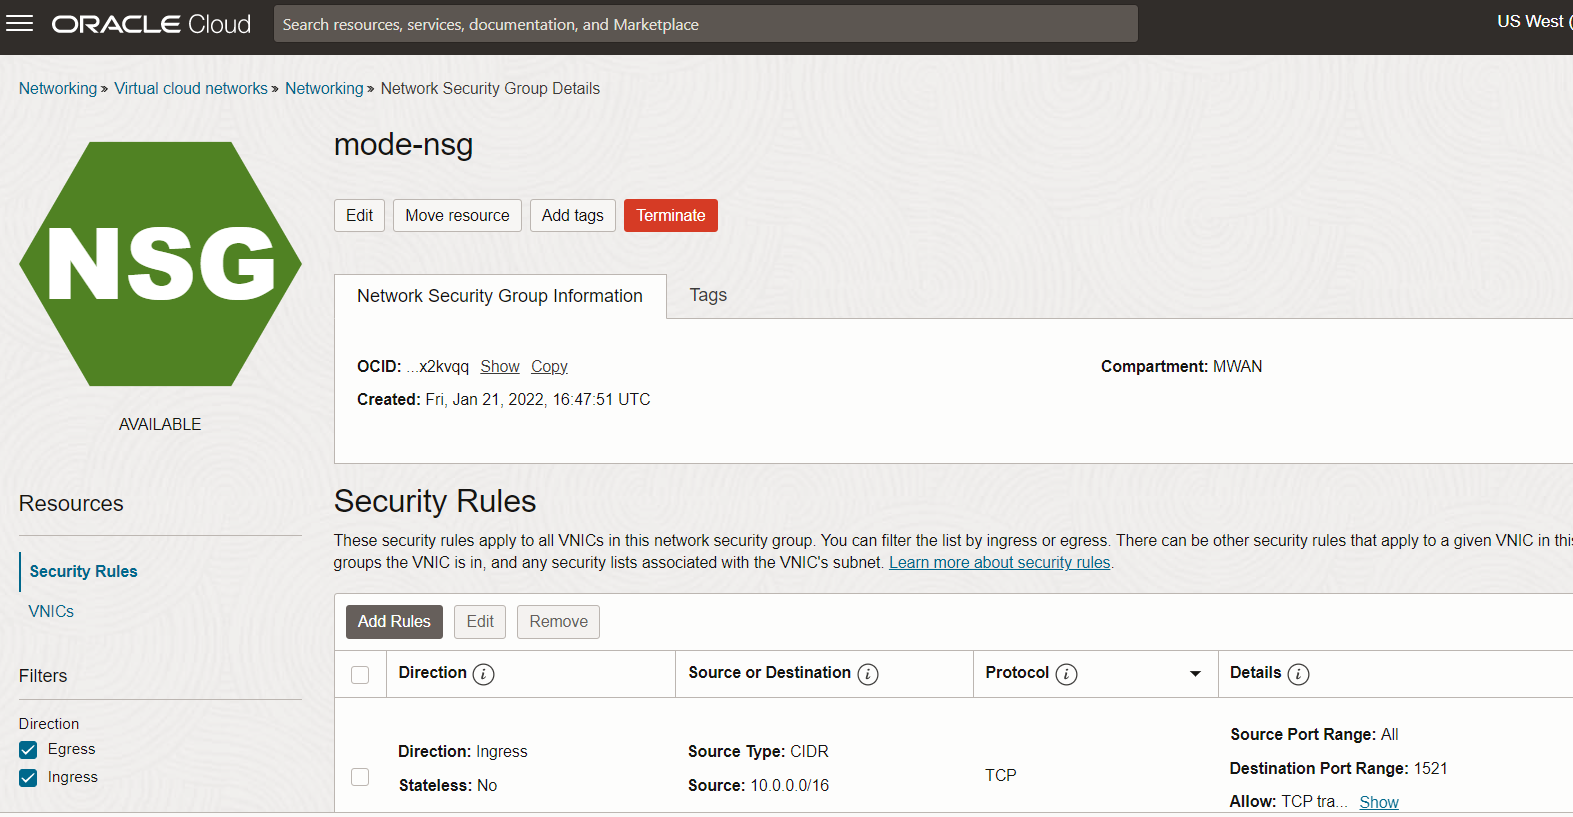
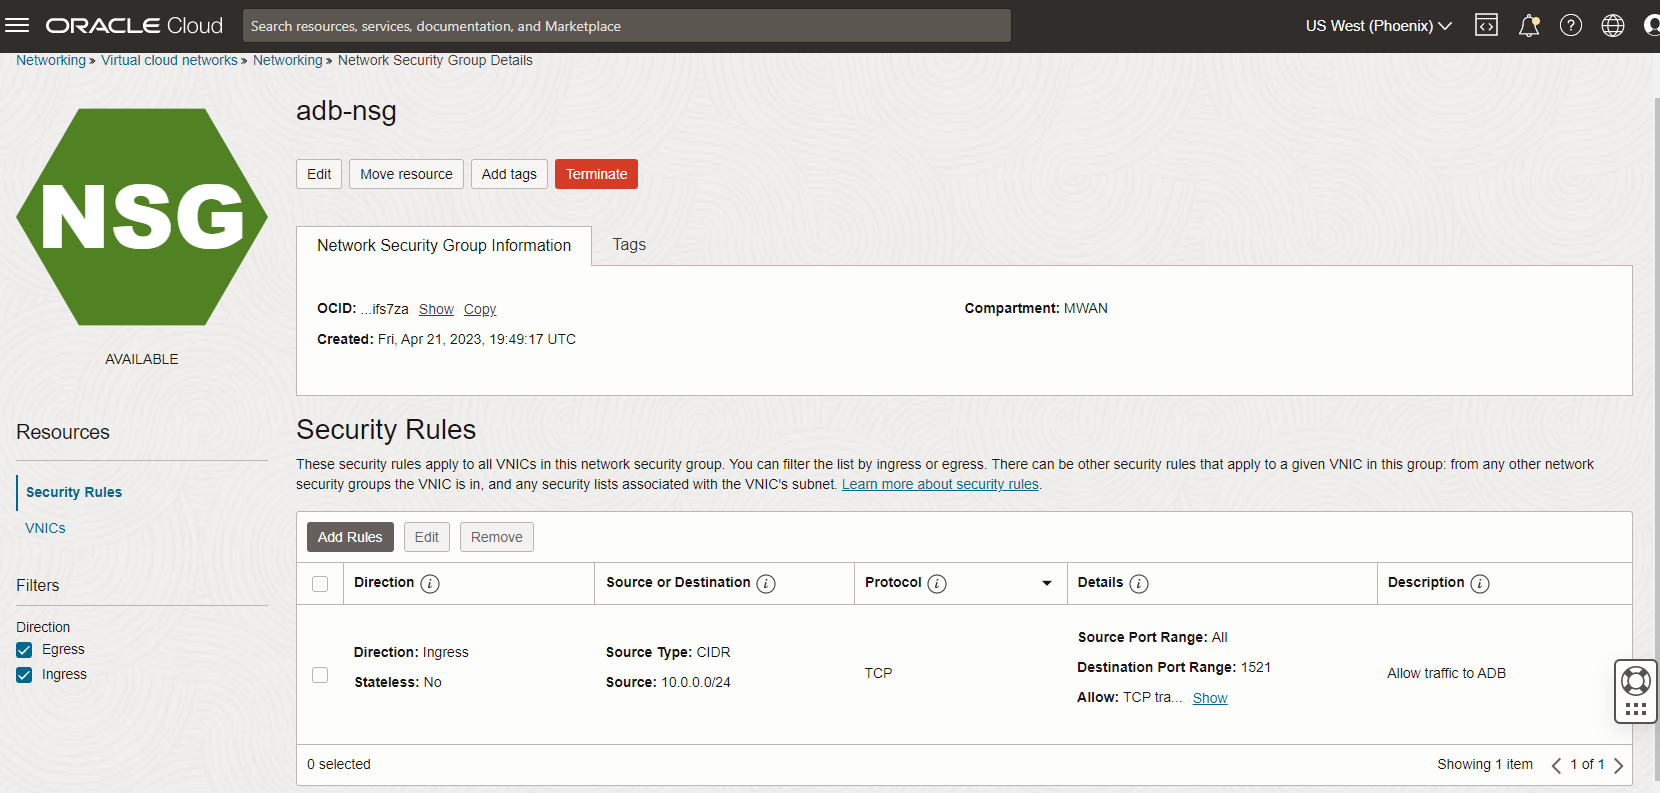
changed nsg picture

diff --git a/common/tls-no-wallet/no-wallet.md b/common/tls-no-wallet/no-wallet.md
@@ -18,7 +18,7 @@ You can connect your application to ADB without the wallet (mTLS) using one way 
 
 ![pe](./images/private-endpoint-diagram.png)
 
-Applications deployed on an OCI VCN can access ADB from private endpoints.  To do this you must configure a network security group and define security rules for access to ADB.  The source CIDR should be where your application is deployed, and the destination port should be 1521. An example is shown below. For more information, see [here](https://docs.oracle.com/en-us/iaas/Content/Network/Concepts/networksecuritygroups.htm).
+Applications deployed on an OCI VCN can access ADB from private endpoints.  To do this you must configure a network security group (NSG) and define security rules for access to ADB.  The source CIDR should be where your application is deployed, and the destination port should be 1521. An example is shown below. For more information about NSG, see [here](https://docs.oracle.com/en-us/iaas/Content/Network/Concepts/networksecuritygroups.htm).
 
 ![adb-nsg](./images/nsg1.png)
 
